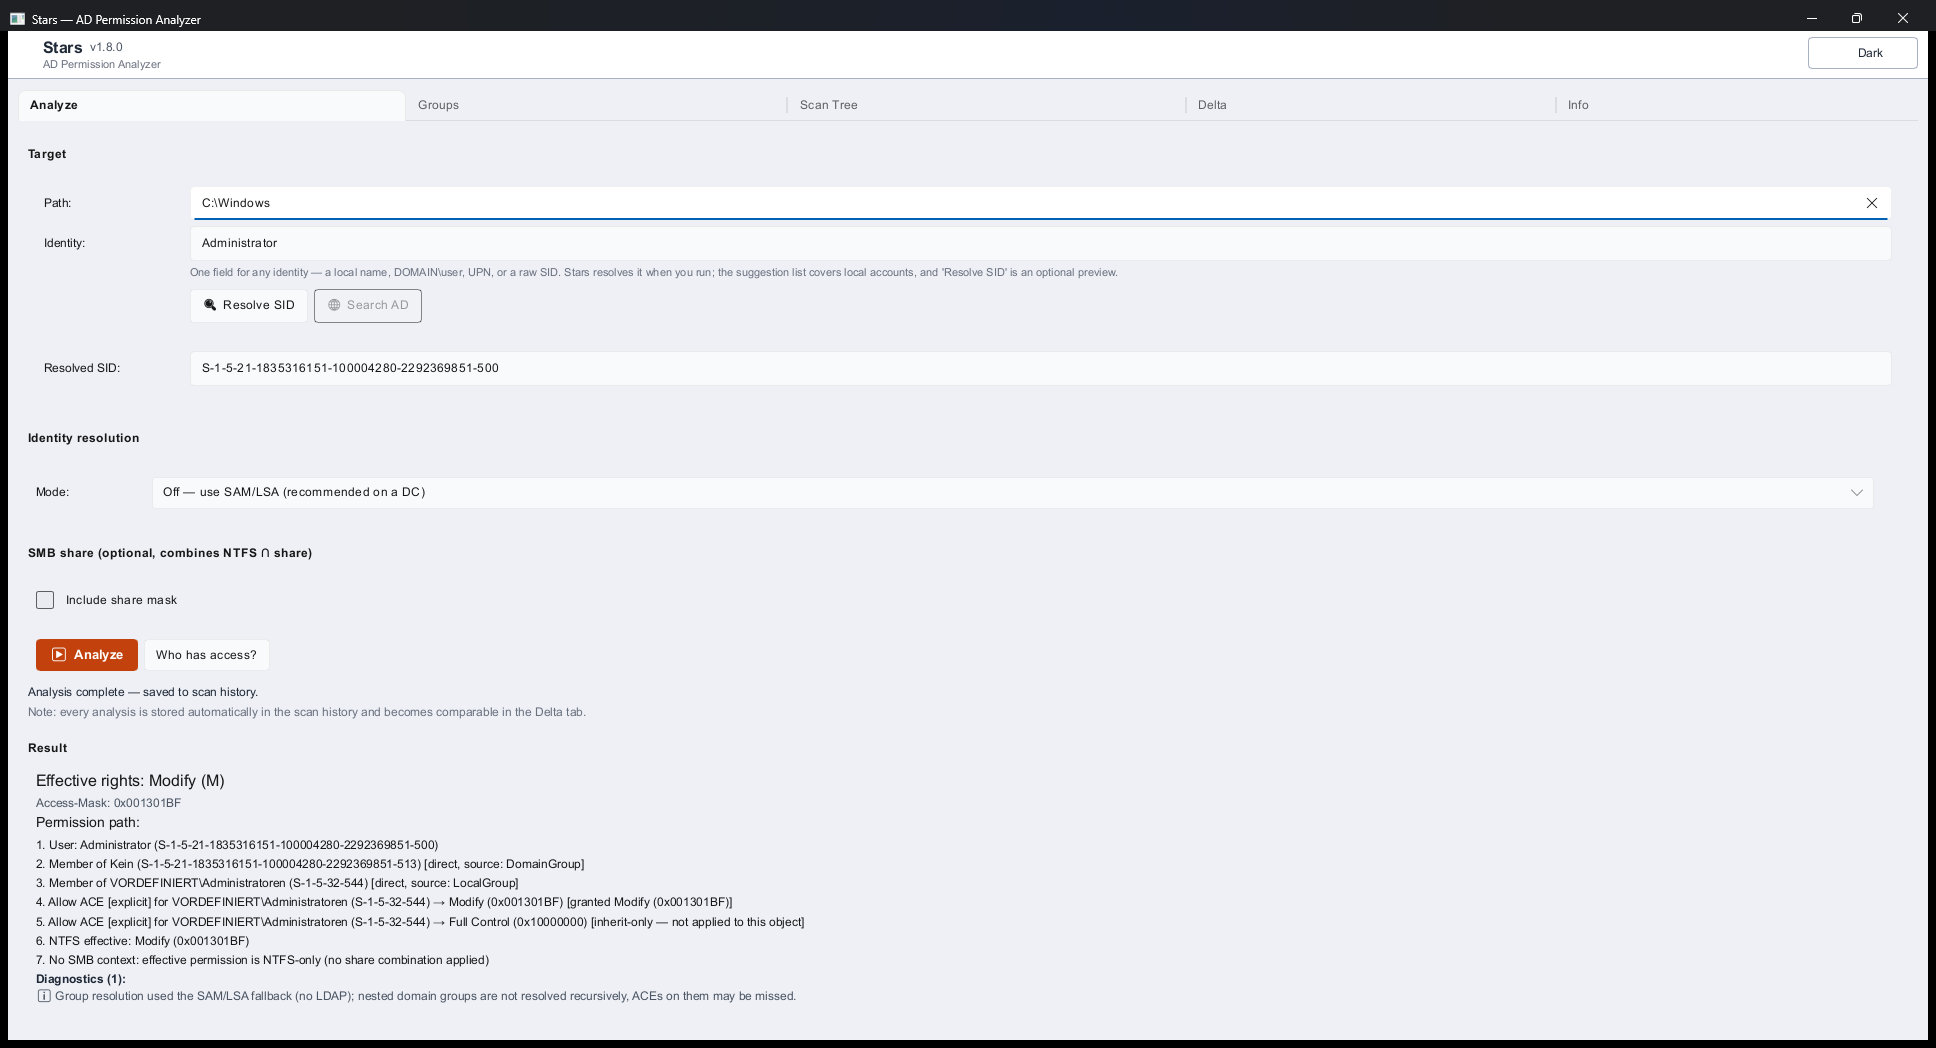
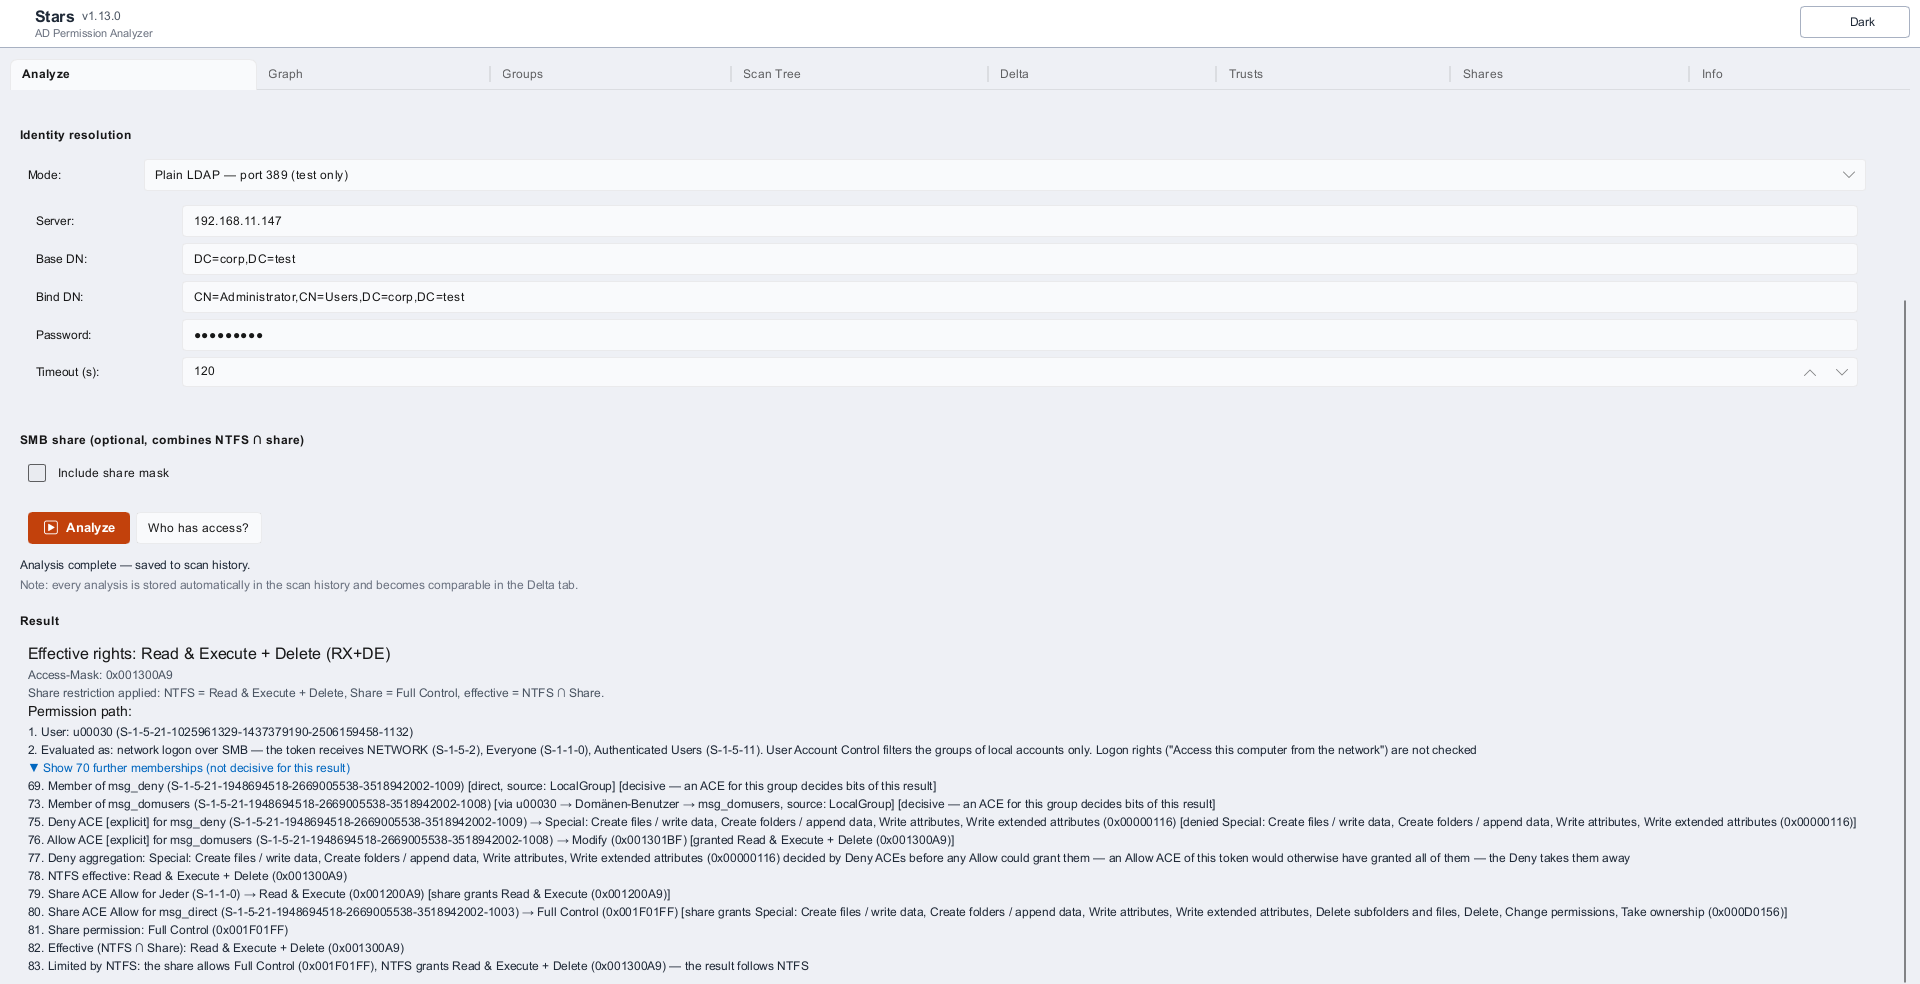
docs(screenshots): Analyze tab and new Graph tab on v1.13.0 (lab case)
The Analyze screenshot was v1.8.0 (five tabs, old path format, a local
administrator shown as plain Modify, which v1.13.0 reports as a UAC
range). Both new shots come from one live lab analysis: a domain user on
a member server's share with a Deny, decisive groups and share ACEs.

diff --git a/docs/index.html b/docs/index.html
@@ -62,7 +62,8 @@
 
   <section>
     <p>Stars is an <b>AGPL-3.0</b> Windows tool for auditing Active Directory, NTFS and SMB permissions. For any user it shows the <b>effective</b> access rights that actually apply to a folder or share &mdash; and, above all, <b>why</b>: through which groups, which ACL entries, which inheritance. For 1 path or 5000 paths alike.</p>
-    <img class="shot" src="screenshots/stars-analyze-tab.png" alt="Stars AD Permission Analyzer - Analyze tab showing target path, identity, resolution mode and SMB share fields">
+    <img class="shot" src="screenshots/stars-analyze-tab.png" alt="Stars AD Permission Analyzer - Analyze tab: effective right of a domain user on a share and the numbered permission path through groups, ACEs and share">
+    <img class="shot" src="screenshots/stars-graph-tab.png" alt="Stars AD Permission Analyzer - Graph tab: the same result as a lane diagram from the account through groups and ACEs to the effective right">
   </section>
 
   <section>

diff --git a/README.md b/README.md
@@ -16,7 +16,7 @@ For every user, the tool shows the effective access rights that actually apply t
 
 > **Stars is exclusively a read-and-analyze tool. It does not modify any permissions, groups, or AD objects.**
 
-![Stars Analyze tab (v1.8.0) — the analysis of C:\Windows for "Administrator": effective right "Modify (M)" with access mask, the numbered permission path from the user through its groups to the deciding ACEs, and the Diagnostics block naming the SAM/LSA fallback so the result's limits are visible in the tab itself](docs/screenshots/stars-analyze-tab.png)
+![Stars Analyze tab (v1.13.0) — a lab domain user on a member server's share, resolved via LDAP: effective right "Read & Execute + Delete" with access mask and the share line (NTFS ∩ Share), then the numbered permission path — how the access is evaluated (network logon over SMB), the 70 memberships that did not matter collapsed behind one toggle, the two decisive groups, the Deny ACE and what it takes away, the share ACEs with what each grants, and the closing "Limited by NTFS" step](docs/screenshots/stars-analyze-tab.png)
 
 ## Contents
 
@@ -403,6 +403,8 @@ Actions:
 - **Who has access?** — path-centric trustee table of all ACEs (NTFS and share separated); unreadable ACLs, partially unevaluated ACEs and empty DACLs appear as explicit diagnostic rows.
 
 #### `Graph` tab
+
+![Stars Graph tab (v1.13.0) — the same result as a lane diagram: account, the four token groups an ACE names plus "+69 further groups", a red Deny ACE and a green Allow ACE leading to the NTFS result, two green share ACEs routed below the boxes, and the effective right with the share value](docs/screenshots/stars-graph-tab.png)
 
 Shows the last `Analyze` result as a lane diagram, read left to right: account → token groups → NTFS ACEs → NTFS → share ACEs → result. Green: an Allow decided bits · red: a Deny decided bits · amber dashed: uncertain (logon / session) · grey dashed: no effect, inherit-only or deny-only. Only groups an ACE names get a box; the rest is "+N further groups". The graph is drawn from the result's own decisions — the same as the numbered permission path, nothing computed anew — and the HTML report embeds the same diagram per row (ADR 0077).
 

diff --git a/docs/user-guide.md b/docs/user-guide.md
@@ -190,6 +190,8 @@ user can effectively do there.
 
 ### `Graph` tab — the result as a diagram
 
+![Stars Graph tab (v1.13.0) — the same result as a lane diagram: account, the four token groups an ACE names plus "+69 further groups", a red Deny ACE and a green Allow ACE leading to the NTFS result, two green share ACEs routed below the boxes, and the effective right with the share value](screenshots/stars-graph-tab.png)
+
 **Purpose:** See at a glance how the last `Analyze` result comes about:
 which group brings which ACE, which ACE decided which bits, and where the
 share limits the result.
